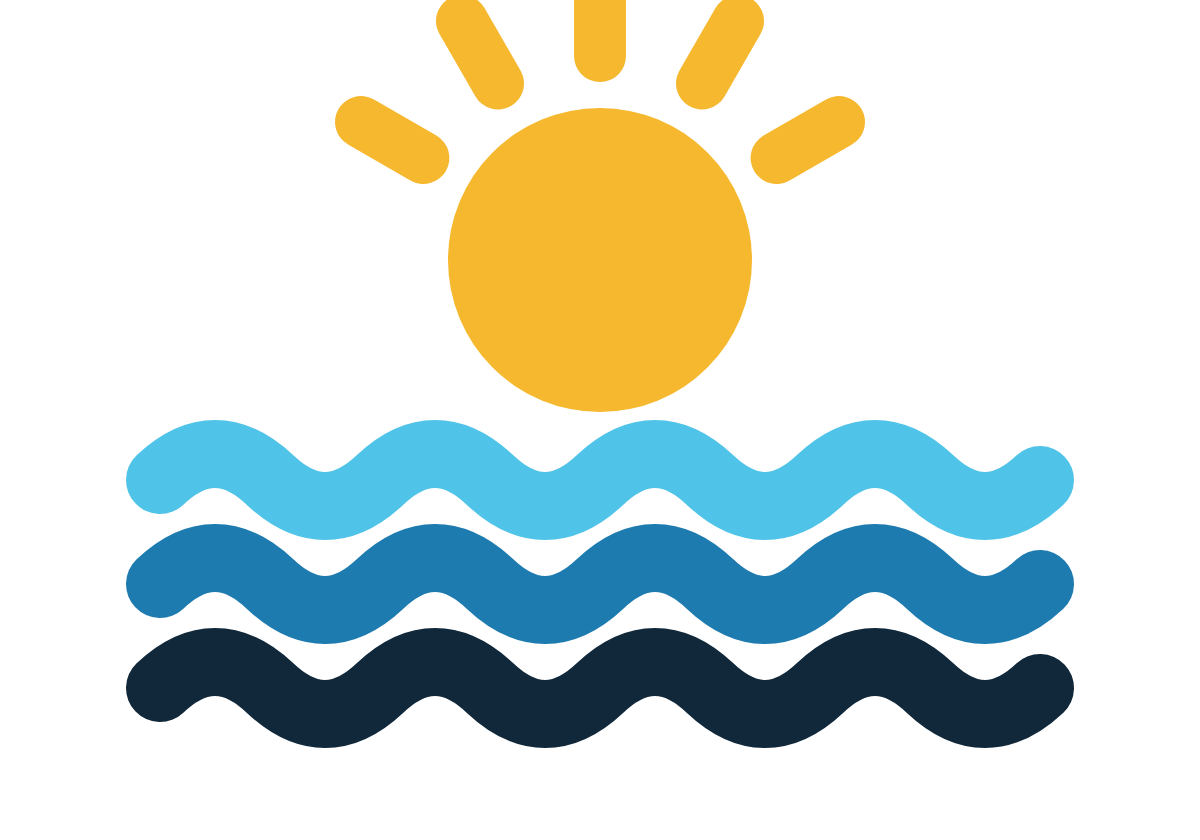
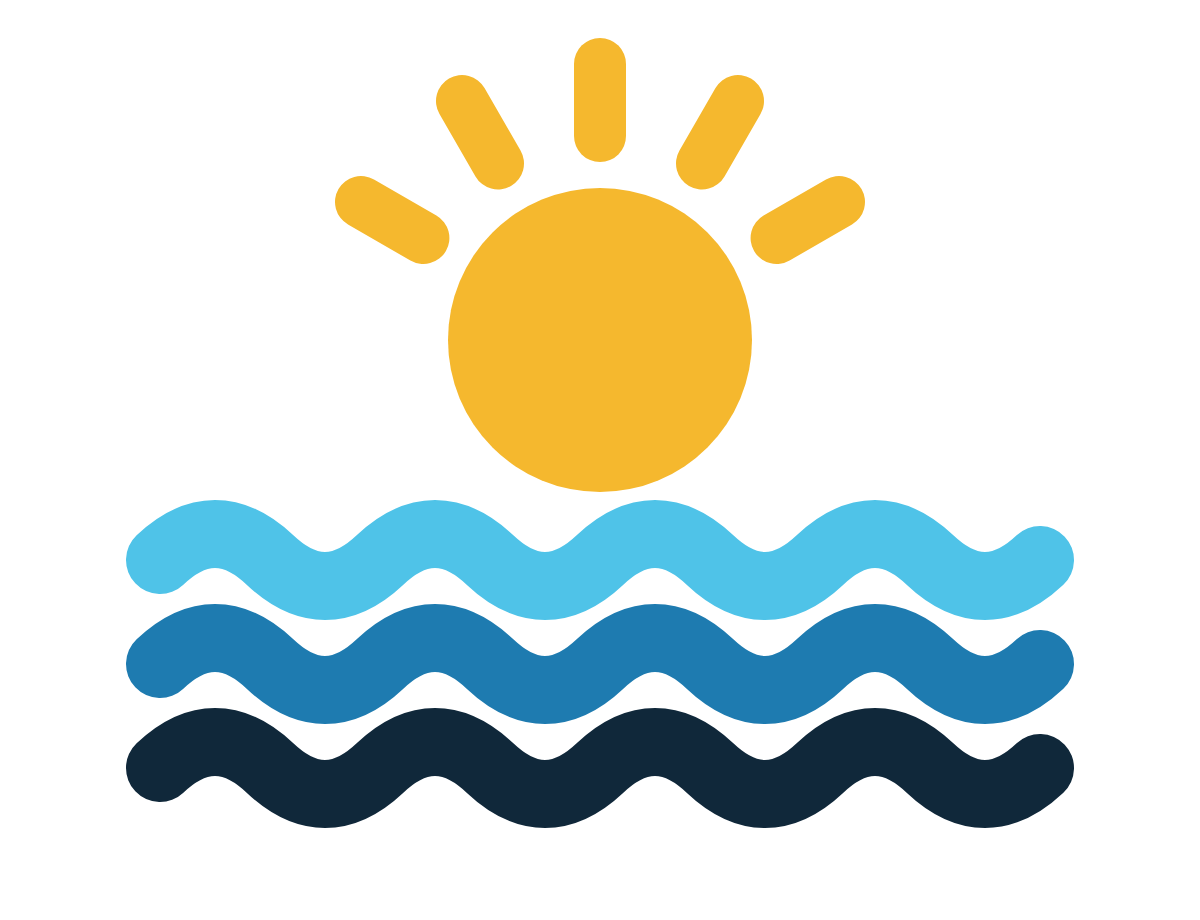
Hat art: add top headroom so the sun rays aren't clipped, PNG-first README
The sun's top ray reached above the canvas top edge and got cut off on every
hat mark. Added TOP_PAD headroom and shifted the art down so the whole sun
(rays + caps) clears the frame. Also reworked the README to say plainly these
are artwork (not machine .DST/.PES stitch files — the embroiderer/POD digitizes
them free) and to upload the transparent PNG (font-independent) rather than the
Fredoka-dependent SVG.

diff --git a/marketing/hats/README.md b/marketing/hats/README.md
@@ -4,16 +4,31 @@ Flat-colour marks built for a needle, not a printer. The sticker art in
 `../stickers/` cannot be stitched: embroidery has no gradients, and a QR code
 cannot be threaded at hat scale and stay scannable.
 
-## Files to send a decorator
+## Artwork, not a stitch file — read this first
+
+These are **artwork** files. They are NOT machine embroidery files (`.DST`,
+`.PES`, `.EXP`, `.JEF`). Turning artwork into stitches — "digitizing" — is a
+skilled step done in embroidery software (Wilcom/Hatch) that decides stitch
+paths, underlay, direction, density and pull compensation. **Your embroiderer
+or print-on-demand service does this for you, and Printify and Embroly both
+digitize for free and email a proof before they stitch.** So the deliverable
+here is the art you hand them; the `.DST`/`.PES` comes back from them.
+
+## Files to send a decorator / upload to a POD
 
 | File | Use |
 |---|---|
-| `isitbeachday-hat-lockup-for-light-cap.svg` | Front panel on **stone / khaki / white**. Navy letters. |
-| `isitbeachday-hat-lockup-for-navy-cap.svg` | Front panel on **navy / black**. Cream letters, lighter wave blues so nothing sinks into the fabric. |
-| `isitbeachday-hat-icon-only.svg` | Sun + waves alone, for a side panel or the back. |
+| `isitbeachday-hat-lockup-for-navy-cap.png` | Front panel on **navy / black**. Transparent, 600 dpi. |
+| `isitbeachday-hat-lockup-for-light-cap.png` | Front panel on **stone / khaki / white**. Transparent, 600 dpi. |
+| `isitbeachday-hat-icon-only.png` | Sun + waves alone, for a side panel or the back. Transparent, 600 dpi. |
 
-Send the **SVG**. The PNGs are 600 dpi previews for eyeballing; the `preview-*-cap.png`
-files show the art on cap-fabric colours at true size.
+**Upload / send the transparent PNG.** It is 600 dpi with the font baked in, so
+it is fully self-contained — the format every POD and digitizer accepts. The
+matching `.svg` is the editable vector source, but its lettering references the
+**Fredoka** font (text is not outlined), so an SVG opened without that font
+loses the words — prefer the PNG unless your decorator has Fredoka installed.
+The `preview-*-cap.png` files show the art on cap-fabric colours at true size,
+for eyeballing only.
 
 ## What to tell them
 
